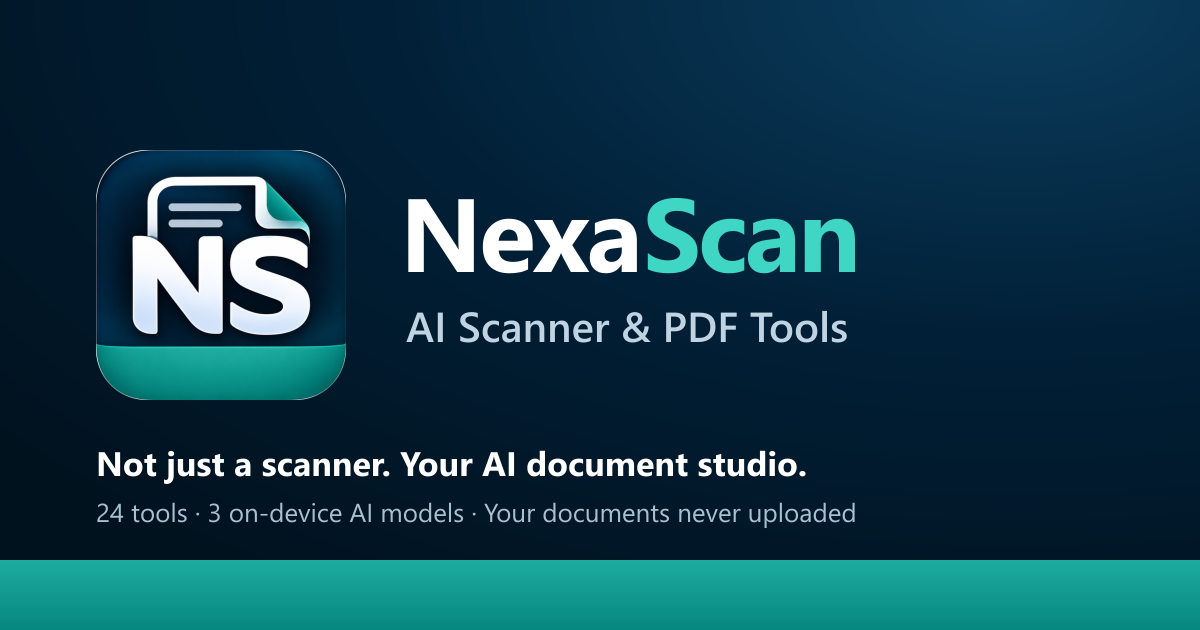
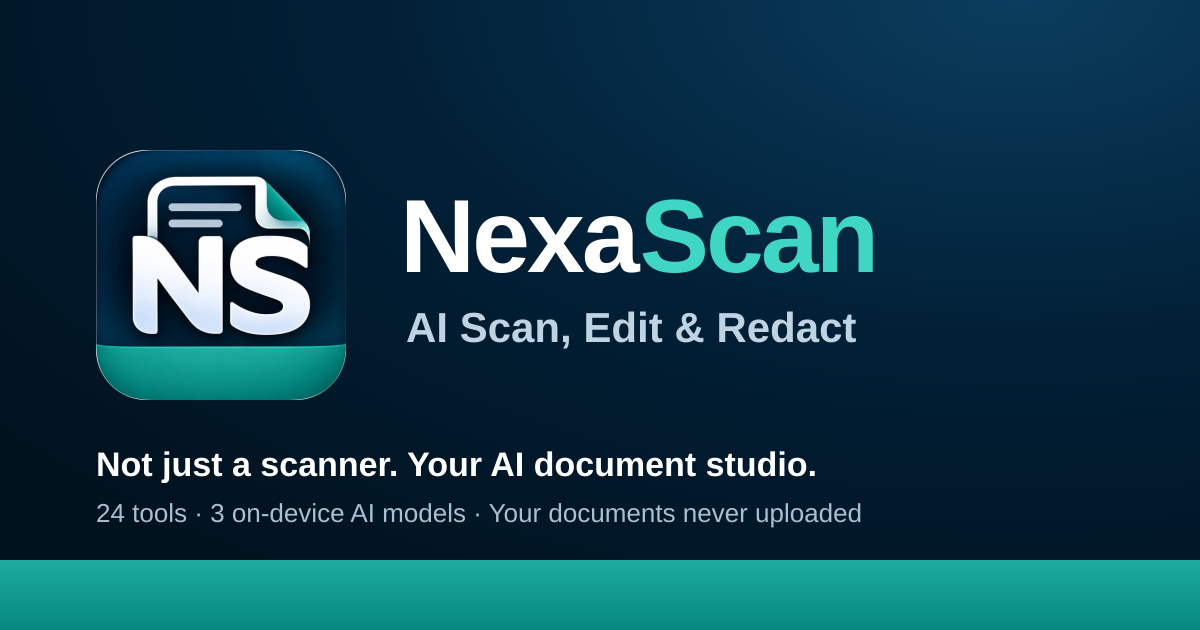
AI Scan, Edit & Redact: new descriptor, editor and redaction up front
The descriptor becomes "AI Scan, Edit & Redact" (home badge, share image, README, package).
Home: title and description lead with scan, edit and redact; a "Scan · Edit · Redact" section
follows the numbers strip; the PDF editor gets its own section after Smart Redact, adding Crop &
Enhance and Remove Watermark and Handwriting; Edit and Sign PDF moves second in Powerful tools.

Claude-Session: https://claude.ai/code/session_01NcVhdvjX92jz8vfL36nVwE

Changed region(s): [[0.0617, 0.6937, 0.74, 0.8444], [0.3392, 0.3016, 0.74, 0.4524], [0.3392, 0.4825, 0.7092, 0.5429]]

diff --git a/src/pages/index.html b/src/pages/index.html
@@ -1,19 +1,19 @@
-<!--{"title":"NexaScan – AI Document Studio for iPhone, iPad, Mac and Android","description":"Not just a scanner: an AI document studio. Scan, restore, edit, sign, convert, redact and protect PDFs on iPhone, iPad, Mac and Android. Nothing is uploaded.","nav":"home","bodyClass":"home"}-->
+<!--{"title":"NexaScan – AI Scan, Edit & Redact PDFs on iPhone and Android","description":"Scan, edit and redact documents on your iPhone, iPad, Mac or Android phone. Edit and sign PDFs, hide personal details with Smart Redact. Nothing is uploaded.","nav":"home","bodyClass":"home"}-->
 <section class="hero hero-brand" aria-labelledby="hero-title">
   <div class="container hero-grid">
     <div class="hero-copy">
-      <p class="hero-descriptor"><img src="{{root}}assets/brand/nexascan-logo.png" alt="" width="28" height="28">NexaScan · AI Scanner &amp; PDF Tools</p>
+      <p class="hero-descriptor"><img src="{{root}}assets/brand/nexascan-logo.png" alt="" width="28" height="28">NexaScan · AI Scan, Edit &amp; Redact</p>
       <h1 id="hero-title">Not just a scanner. <span class="accent">Your AI document studio.</span></h1>
-      <p class="lead">Scan, restore, edit, sign, convert, redact and protect. {{gen:tool-count}} tools, {{gen:looks-count}} clean-up looks and four AI models that run on your iPhone, iPad, Mac or Android phone, so your documents are never uploaded.</p>
+      <p class="lead">Scan it, edit it, redact it. Then sign, convert and protect it. {{gen:tool-count}} tools, {{gen:looks-count}} clean-up looks and four AI models that run on your iPhone, iPad, Mac or Android phone, so your documents are never uploaded.</p>
       <div class="button-row">
         {{store_cta}}
       </div>
       {{store_note}}
       <ul class="hero-points">
+        <li>Edit any PDF on your phone</li>
+        <li>Hide personal details before you share</li>
         <li>Works offline</li>
         <li>No account</li>
-        <li>No watermark on your files</li>
-        <li>Hide personal details before you share</li>
       </ul>
     </div>
     <div class="hero-visual" aria-hidden="true">
@@ -38,6 +38,39 @@
   </div>
 </section>
 
+<section class="section" id="scan-edit-redact" aria-labelledby="pillars-title">
+  <div class="container">
+    <div class="section-head center reveal">
+      <p class="eyebrow">Scan · Edit · Redact</p>
+      <h2 id="pillars-title">Three jobs, one app</h2>
+      <p class="lead">Capture a page, change what it says, and hide what nobody else should see, all on your device.</p>
+    </div>
+    <div class="power-grid">
+      <a class="power-card reveal" href="{{root}}features/#create">
+        <span class="power-tags"><span class="tag tag-ai">AI</span><span class="tag">Free</span></span>
+        <span class="tool-icon">{{icon:scan}}</span>
+        <h3>Scan</h3>
+        <p>Page edges found live and every shot straightened. Auto Capture takes the picture when the page is steady, and {{gen:looks-count}} clean-up looks make it sharp.</p>
+        <span class="power-for">Save as a PDF or JPEG images</span>
+      </a>
+      <a class="power-card power-feature reveal reveal-delay-1" href="#edit">
+        <span class="power-tags"><span class="tag">Sign free</span><span class="tag tag-pro">Edit Pro</span></span>
+        <span class="tool-icon">{{icon:edit}}</span>
+        <h3>Edit</h3>
+        <p>Write, draw and sign on any page, fill in forms with a tick, cross or date, add shapes and arrows, pixelate and watermark, and remove stamps and pen marks.</p>
+        <span class="power-for">Saved as an edited copy, your original kept</span>
+      </a>
+      <a class="power-card power-feature reveal reveal-delay-2" href="{{root}}smart-redact/">
+        <span class="power-tags"><span class="tag tag-new">New</span><span class="tag tag-ai">AI</span><span class="tag tag-pro">Pro</span></span>
+        <span class="tool-icon">{{icon:redact}}</span>
+        <h3>Redact</h3>
+        <p>Smart Redact finds names, addresses, account and ID numbers for you to review, then hides them for real, so the text can't be copied back out.</p>
+        <span class="power-for">For payslips, bank statements, IDs and contracts</span>
+      </a>
+    </div>
+  </div>
+</section>
+
 <section class="section" id="powerful" aria-labelledby="powerful-title">
   <div class="container">
     <div class="section-head center reveal">
@@ -53,26 +86,26 @@
         <p>Anonymise payslips, bank statements, IDs and contracts before you share them. It finds names, addresses, account and ID numbers for you to review, then hides them for real.</p>
         <span class="power-for">For rental and mortgage applications, new jobs, insurers and support tickets</span>
       </a>
-      <a class="power-card reveal reveal-delay-1" href="#restore">
+      <a class="power-card reveal reveal-delay-1" href="#edit">
+        <span class="power-tags"><span class="tag">Sign free</span><span class="tag tag-pro">Edit Pro</span></span>
+        <span class="tool-icon">{{icon:sign}}</span>
+        <h3>Edit and Sign PDF</h3>
+        <p>Sign, write, tick, cross and date a form, add shapes and arrows, pixelate and watermark, on any page.</p>
+        <span class="power-for">For contracts, permission slips and forms</span>
+      </a>
+      <a class="power-card reveal reveal-delay-2" href="#restore">
         <span class="power-tags"><span class="tag tag-ai">AI</span><span class="tag tag-pro">Pro</span></span>
         <span class="tool-icon">{{icon:sparkle}}</span>
         <h3>Nexa Magic and Nexa Renew</h3>
         <p>Folds, creases, stains and yellowed paper repaired, or a worn page rebuilt clean on fresh paper.</p>
         <span class="power-for">For old letters, receipts and family records</span>
       </a>
-      <a class="power-card reveal reveal-delay-2" href="{{root}}features/#edit-sign">
+      <a class="power-card reveal" href="{{root}}features/#edit-sign">
         <span class="power-tags"><span class="tag tag-ai">AI</span><span class="tag tag-pro">Pro</span></span>
         <span class="tool-icon">{{icon:eraser}}</span>
         <h3>Remove Watermark and Handwriting</h3>
         <p>Brush over a stamp or pen marks once. Similar marks across the document are found and cleaned away, and your text is kept.</p>
         <span class="power-for">For your own drafts and forms you want to reuse</span>
-      </a>
-      <a class="power-card reveal" href="{{root}}features/#edit-sign">
-        <span class="power-tags"><span class="tag">Sign free</span><span class="tag tag-pro">Edit Pro</span></span>
-        <span class="tool-icon">{{icon:sign}}</span>
-        <h3>Edit and Sign PDF</h3>
-        <p>Sign, write, tick, cross and date a form, add shapes and arrows, pixelate and watermark, on any page.</p>
-        <span class="power-for">For contracts, permission slips and forms</span>
       </a>
       <a class="power-card reveal reveal-delay-1" href="{{root}}features/#convert">
         <span class="power-tags"><span class="tag tag-ai">AI</span><span class="tag">Free</span></span>
@@ -132,6 +165,30 @@
       </div>
     </div>
 
+  </div>
+</section>
+
+<section class="section" id="edit" aria-labelledby="edit-title">
+  <div class="container">
+    <div class="story flip">
+      <div class="story-copy reveal">
+        <p class="eyebrow">PDF editor</p>
+        <h2 id="edit-title">Edit any PDF, right on your phone</h2>
+        <p class="lead">Sign any PDF for free. With Pro, edit across every page: text, shapes, form marks, pixelation and watermarks. Every edit is saved as a new copy, so your original stays as it was.</p>
+        <ul class="checks">
+          <li><div><strong>Sign PDF</strong><span>Draw your signature, then place it on any page.</span></div></li>
+          <li><div><strong>Crop &amp; Enhance</strong><span>Open a PDF or photo as editable pages: crop, rotate, retake, fine-tune brightness, contrast and colour, and add text, drawing or a signature.</span></div></li>
+          <li><div><strong>Edit PDF <span class="tag tag-pro">Pro</span></strong><span>Text, drawing, boxes, circles and arrows, tick, cross or date marks for forms, pixelation and watermarks. Your signature and initials stay saved on this phone.</span></div></li>
+          <li><div><strong>Remove Watermark and Handwriting <span class="tag tag-ai">AI</span> <span class="tag tag-pro">Pro</span></strong><span>Brush over a stamp or pen marks once. Similar marks are found and cleaned away, and your text is kept.</span></div></li>
+          <li><div><strong>Page numbers and watermarks <span class="tag tag-pro">Pro</span></strong><span>Number pages in the style you choose, and add a text or logo watermark.</span></div></li>
+        </ul>
+        <p class="story-link"><a class="button button-ghost" href="{{root}}features/#edit-sign">All editing tools</a></p>
+      </div>
+      <div class="story-visual reveal reveal-delay-1">
+        <div class="phone phone-sm"><img src="{{root}}assets/screenshots/edit-pdf.webp" alt="Edit PDF with a signature placed on the invoice and the Sign, Add Text, Brush and Watermark tools" width="540" height="1094" loading="lazy"></div>
+        <div class="phone phone-sm"><img src="{{root}}assets/screenshots/remove-watermark.webp" alt="Remove Watermark showing the DRAFT watermark it found on a sample letter, ready to remove" width="540" height="1094" loading="lazy"></div>
+      </div>
+    </div>
   </div>
 </section>
 
@@ -314,23 +371,6 @@
       <div class="story-visual reveal reveal-delay-1">
         <div class="phone phone-sm"><img src="{{root}}assets/screenshots/extract-text.webp" alt="Extract Text showing the recognised words of a scanned invoice, with Copy and Share" width="540" height="1094" loading="lazy"></div>
         <div class="phone phone-sm"><img src="{{root}}assets/screenshots/ocr-select.webp" alt="Rows of a scanned invoice selected in the OCR Document Viewer, with Copy and Share buttons" width="540" height="1094" loading="lazy"></div>
-      </div>
-    </div>
-
-    <div class="story flip">
-      <div class="story-copy reveal">
-        <p class="eyebrow">Edit &amp; sign</p>
-        <h2 id="sign-title">Sign it, fill it in, mark it up</h2>
-        <p class="lead">Sign any PDF for free. With Pro, edit across every page: text, shapes, form marks, pixelation and watermarks.</p>
-        <ul class="checks">
-          <li><div><strong>Sign PDF</strong><span>Draw your signature, then place it on any page.</span></div></li>
-          <li><div><strong>Edit PDF <span class="tag tag-pro">Pro</span></strong><span>Text, drawing, boxes, circles and arrows, and tick, cross or date marks for forms. Your signature and initials stay saved on this phone.</span></div></li>
-          <li><div><strong>Page numbers and watermarks <span class="tag tag-pro">Pro</span></strong><span>Number pages in the style you choose, and add a text or logo watermark.</span></div></li>
-        </ul>
-      </div>
-      <div class="story-visual reveal reveal-delay-1">
-        <div class="phone phone-sm"><img src="{{root}}assets/screenshots/edit-pdf.webp" alt="Edit PDF with a signature placed on the invoice and the Sign, Add Text, Brush and Watermark tools" width="540" height="1094" loading="lazy"></div>
-        <div class="phone phone-sm"><img src="{{root}}assets/screenshots/remove-watermark.webp" alt="Remove Watermark showing the DRAFT watermark it found on a sample letter, ready to remove" width="540" height="1094" loading="lazy"></div>
       </div>
     </div>
 

diff --git a/README.md b/README.md
@@ -1,6 +1,6 @@
 # NexaScan website
 
-The public product site for **NexaScan – AI Scanner & PDF Tools**, by GreenPlant Technologies.
+The public product site for **NexaScan – AI Scan, Edit & Redact**, by GreenPlant Technologies.
 Static HTML/CSS/JS, built by a small dependency-free Node script and deployed to GitHub Pages.
 
 ## Pages
